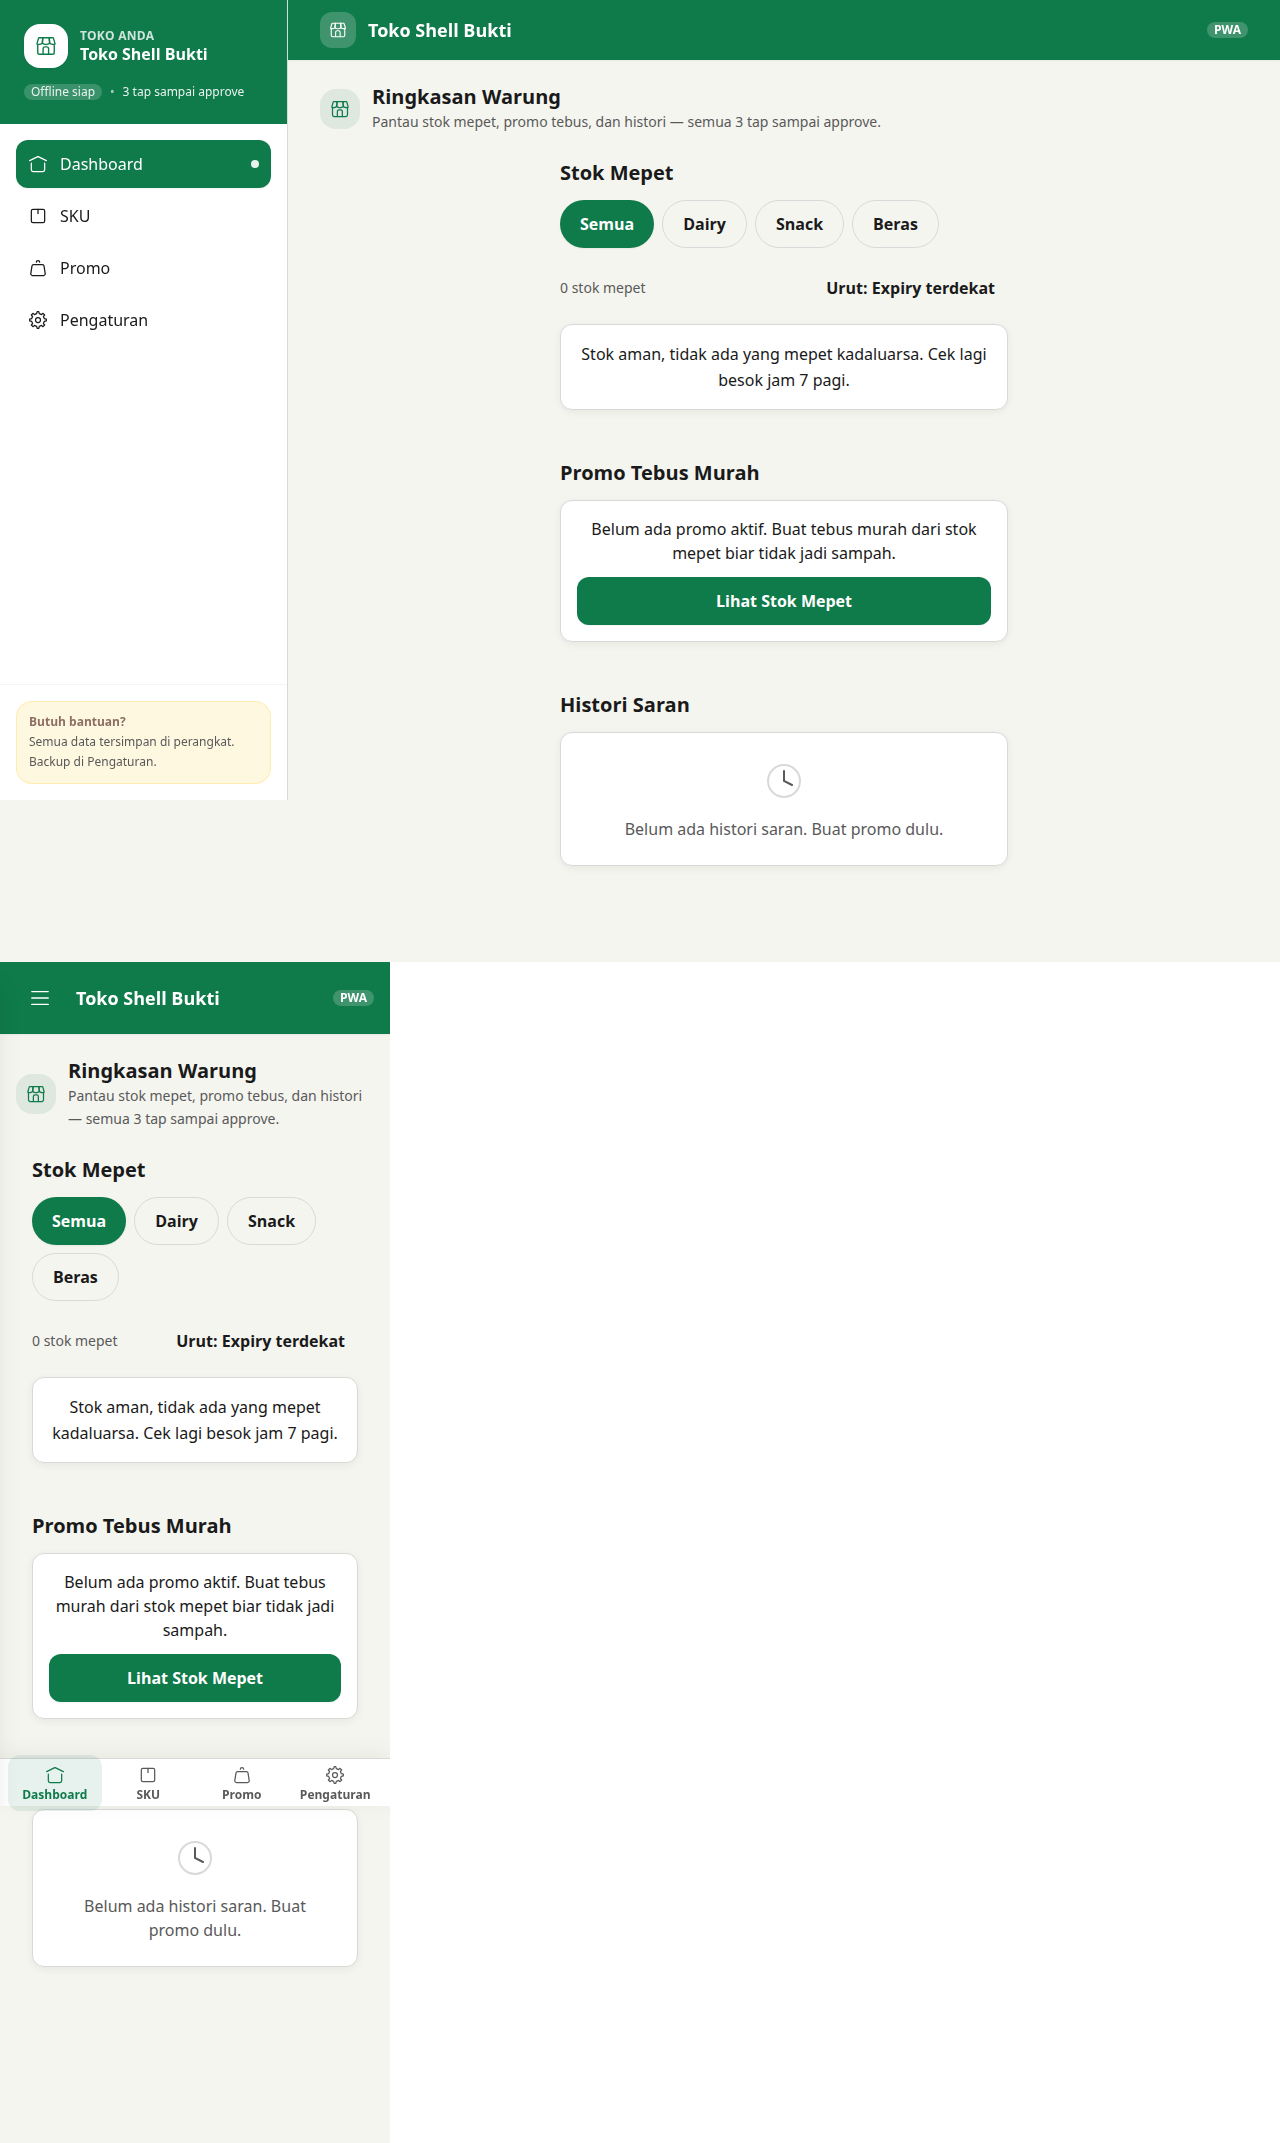
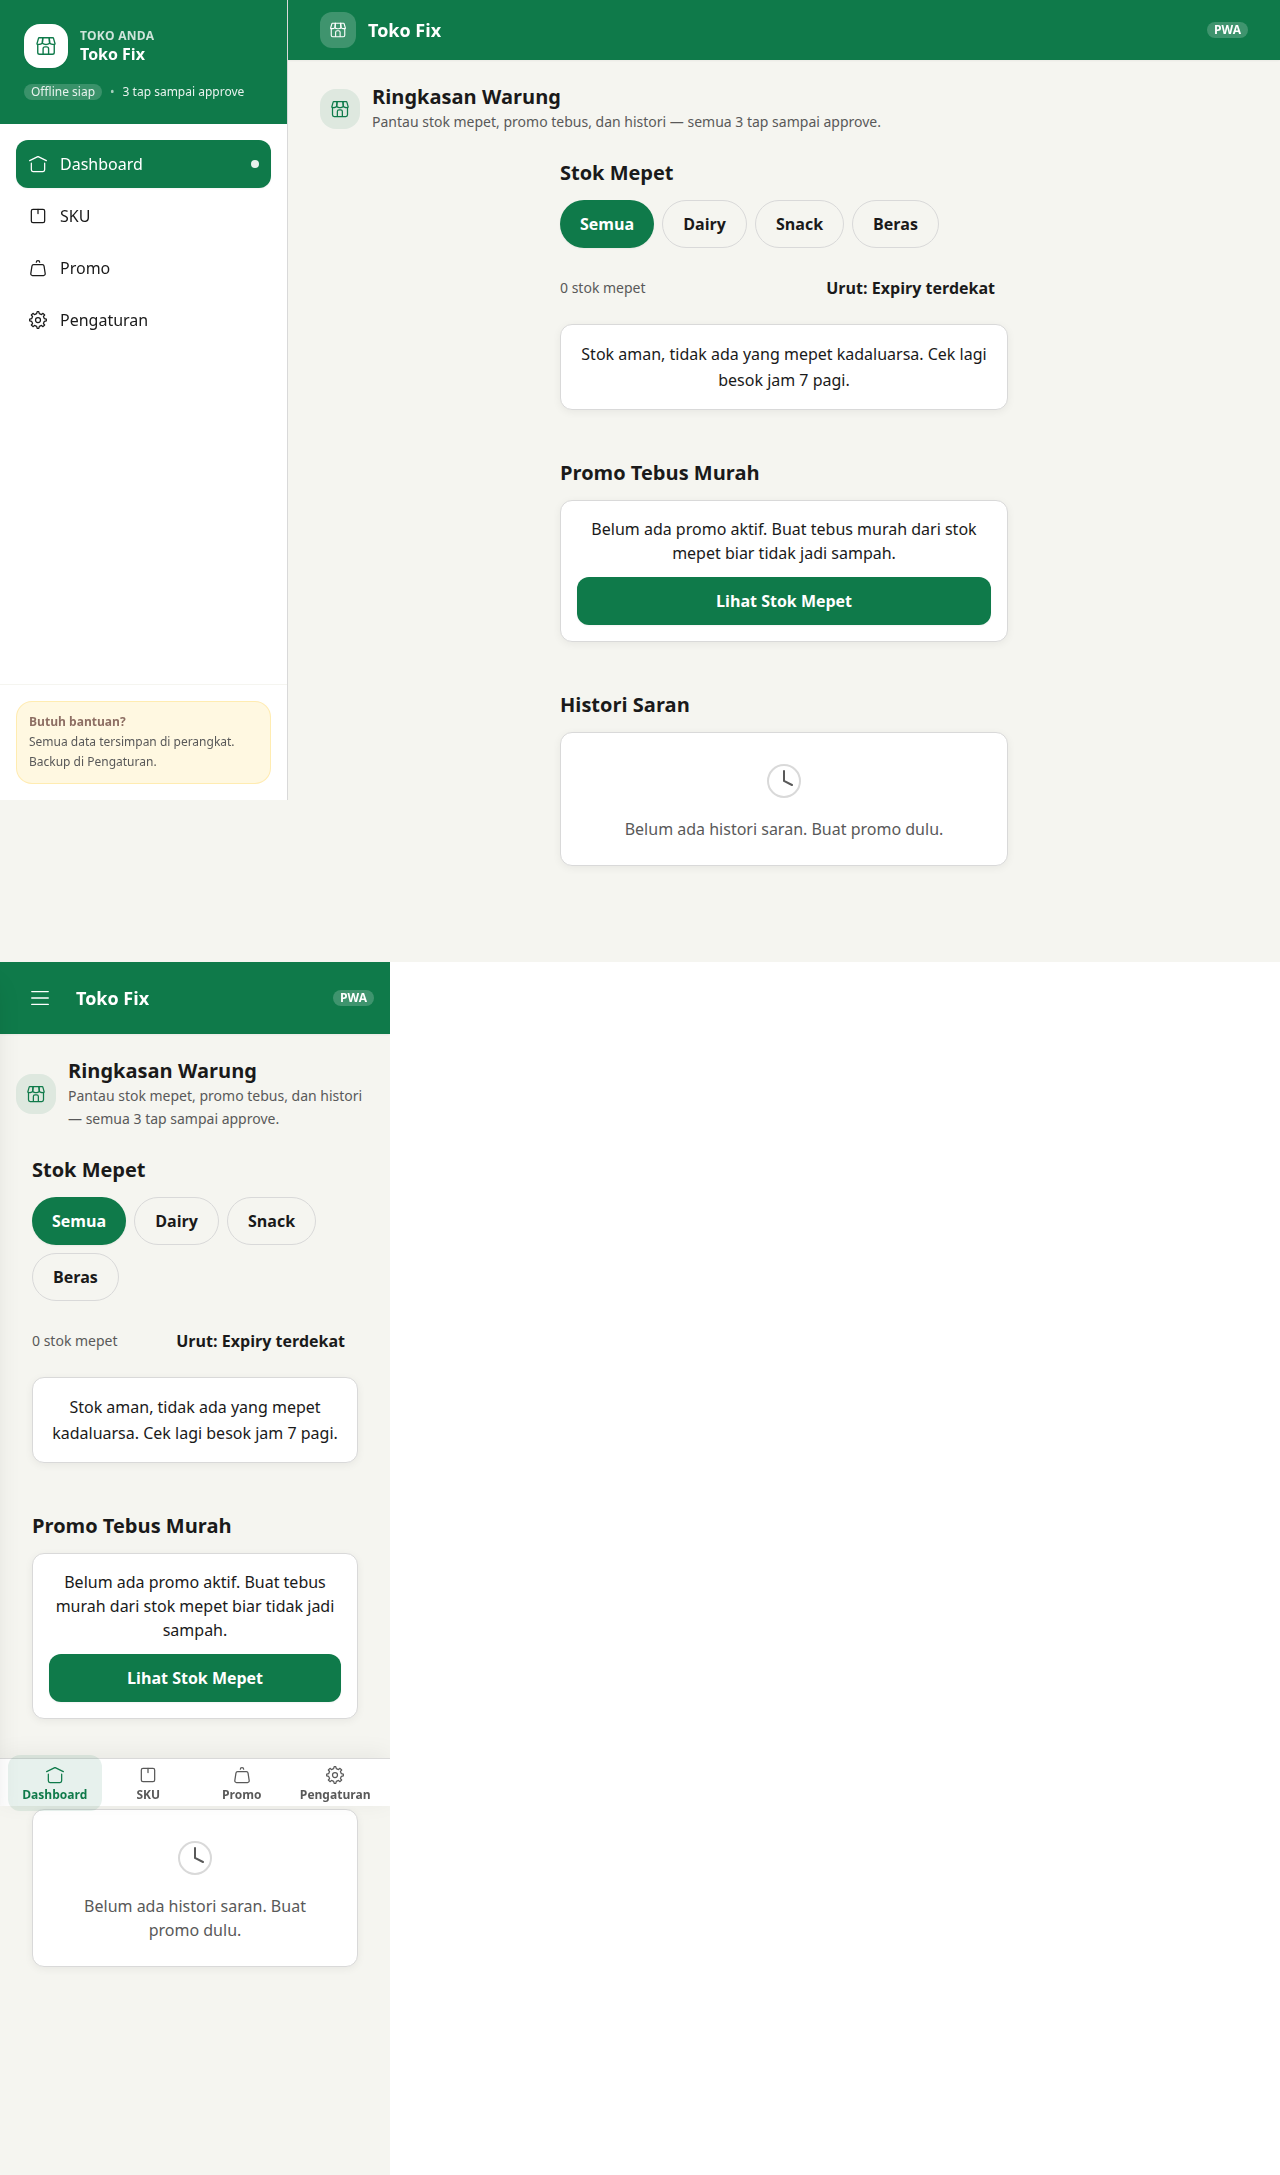
fix(ui): mobile bottom padding clears nav
- main pb-28 (112px) -> pb-36 (144px) mobile only, lg:pb-8 desktop unchanged, clears fixed bottom-nav 56px + safe-area
- sentinel + last CTA boundingBox above nav top + overlap false + pb >=120 mobile verified, screenshot proof updated
- e2e/shell.spec.ts strengthened no-overlap, 6/6 green, bun test 119 pass, build exit 0

diff --git a/e2e/shell.spec.ts b/e2e/shell.spec.ts
@@ -166,25 +166,45 @@ test.describe("Shell responsif + tema + primitif cantik", () => {
     const navBox = await bottomNav.boundingBox();
     expect(sentinelBox).not.toBeNull();
     expect(navBox).not.toBeNull();
-    if (sentinelBox && navBox) {
-      // sentinel must be above nav or at least not fully covered — sentinel bottom < nav top OR sentinel visible in viewport above nav
-      // Check sentinel is not overlapping bottom-nav: sentinel y + height <= nav y OR sentinel is scrollable above
-      // Scroll to bottom first
-      await sentinel.scrollIntoViewIfNeeded();
-      const afterSentinelBox = await sentinel.boundingBox();
-      const afterNavBox = await bottomNav.boundingBox();
-      expect(afterSentinelBox).not.toBeNull();
-      expect(afterNavBox).not.toBeNull();
-      if (afterSentinelBox && afterNavBox) {
-        // sentinel should be above nav top when scrolled to end (with padding)
-        expect(afterSentinelBox.y + afterSentinelBox.height).toBeLessThanOrEqual(afterNavBox.y + 4);
-      }
+    await sentinel.scrollIntoViewIfNeeded();
+    const afterSentinelBox = await sentinel.boundingBox();
+    const afterNavBox = await bottomNav.boundingBox();
+    expect(afterSentinelBox).not.toBeNull();
+    expect(afterNavBox).not.toBeNull();
+    if (afterSentinelBox && afterNavBox) {
+      expect(afterSentinelBox.y + afterSentinelBox.height).toBeLessThanOrEqual(afterNavBox.y + 4);
     }
 
-    // Desktop also no overlap — bottom nav hidden so sentinel anywhere is fine
+    const lastCta = page.locator('[data-testid="main-content"] button').last();
+    if (await lastCta.count() > 0) {
+      await expect(lastCta).toBeVisible();
+      await lastCta.scrollIntoViewIfNeeded();
+      await page.waitForTimeout(200);
+      const ctaBox = await lastCta.boundingBox();
+      const navBox2 = await bottomNav.boundingBox();
+      expect(ctaBox).not.toBeNull();
+      expect(navBox2).not.toBeNull();
+      if (ctaBox && navBox2) {
+        expect(ctaBox.y + ctaBox.height).toBeLessThanOrEqual(navBox2.y + 2);
+      }
+      const overlap = await lastCta.evaluate((el) => {
+        const r = el.getBoundingClientRect();
+        const nav = document.querySelector('[data-testid="bottom-nav"]') as HTMLElement | null;
+        if (!nav) return false;
+        const nr = nav.getBoundingClientRect();
+        return !(r.bottom <= nr.top || r.top >= nr.bottom);
+      });
+      expect(overlap).toBe(false);
+    }
+
+    const mainPb = await main.evaluate((el) => parseInt(getComputedStyle(el).paddingBottom, 10));
+    expect(mainPb).toBeGreaterThanOrEqual(120);
+
     await page.setViewportSize({ width: 1280, height: 800 });
     await expect(page.getByTestId("bottom-nav")).toBeHidden();
     await expect(sentinel).toBeVisible();
+    const mainPbDesktop = await main.evaluate((el) => parseInt(getComputedStyle(el).paddingBottom, 10));
+    expect(mainPbDesktop).toBeLessThanOrEqual(40);
   });
 
   test("primitif dipakai shell — PageHeader + rounded-2xl card + Bahasa sederhana", async ({ page }) => {

diff --git a/src/App.tsx b/src/App.tsx
@@ -143,10 +143,10 @@ function WarungShell({
           <span className="badge badge-sm bg-white/20 text-white border-none font-semibold">PWA</span>
         </header>
 
-        {/* Main content — responsif */}
+        {/* Main content — responsif: mobile pb-36 clears fixed bottom-nav + safe-area */}
         <main
           data-testid="main-content"
-          className="flex-1 container max-w-7xl mx-auto px-4 lg:px-8 py-6 pb-28 lg:pb-8"
+          className="flex-1 container max-w-7xl mx-auto px-4 lg:px-8 py-6 pb-36 lg:pb-8"
         >
           {/* Primitif contoh — PageHeader dipakai shell untuk view dashboard */}
           {view === "dashboard" ? (
